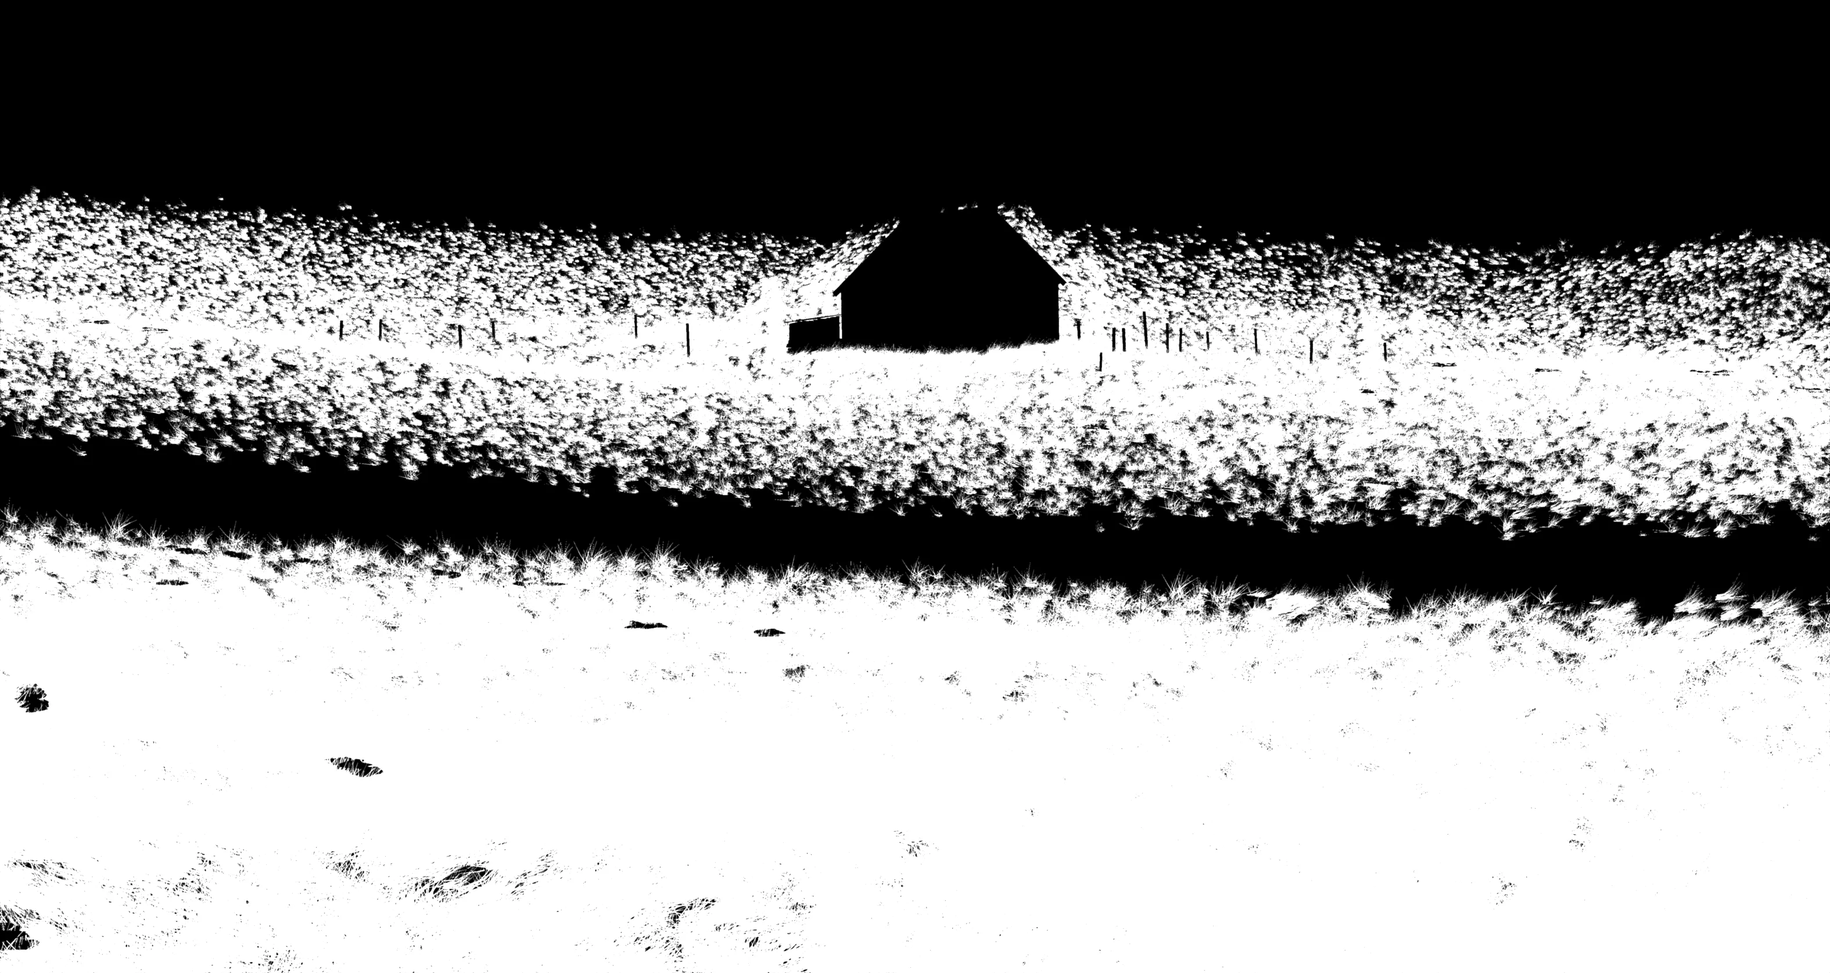
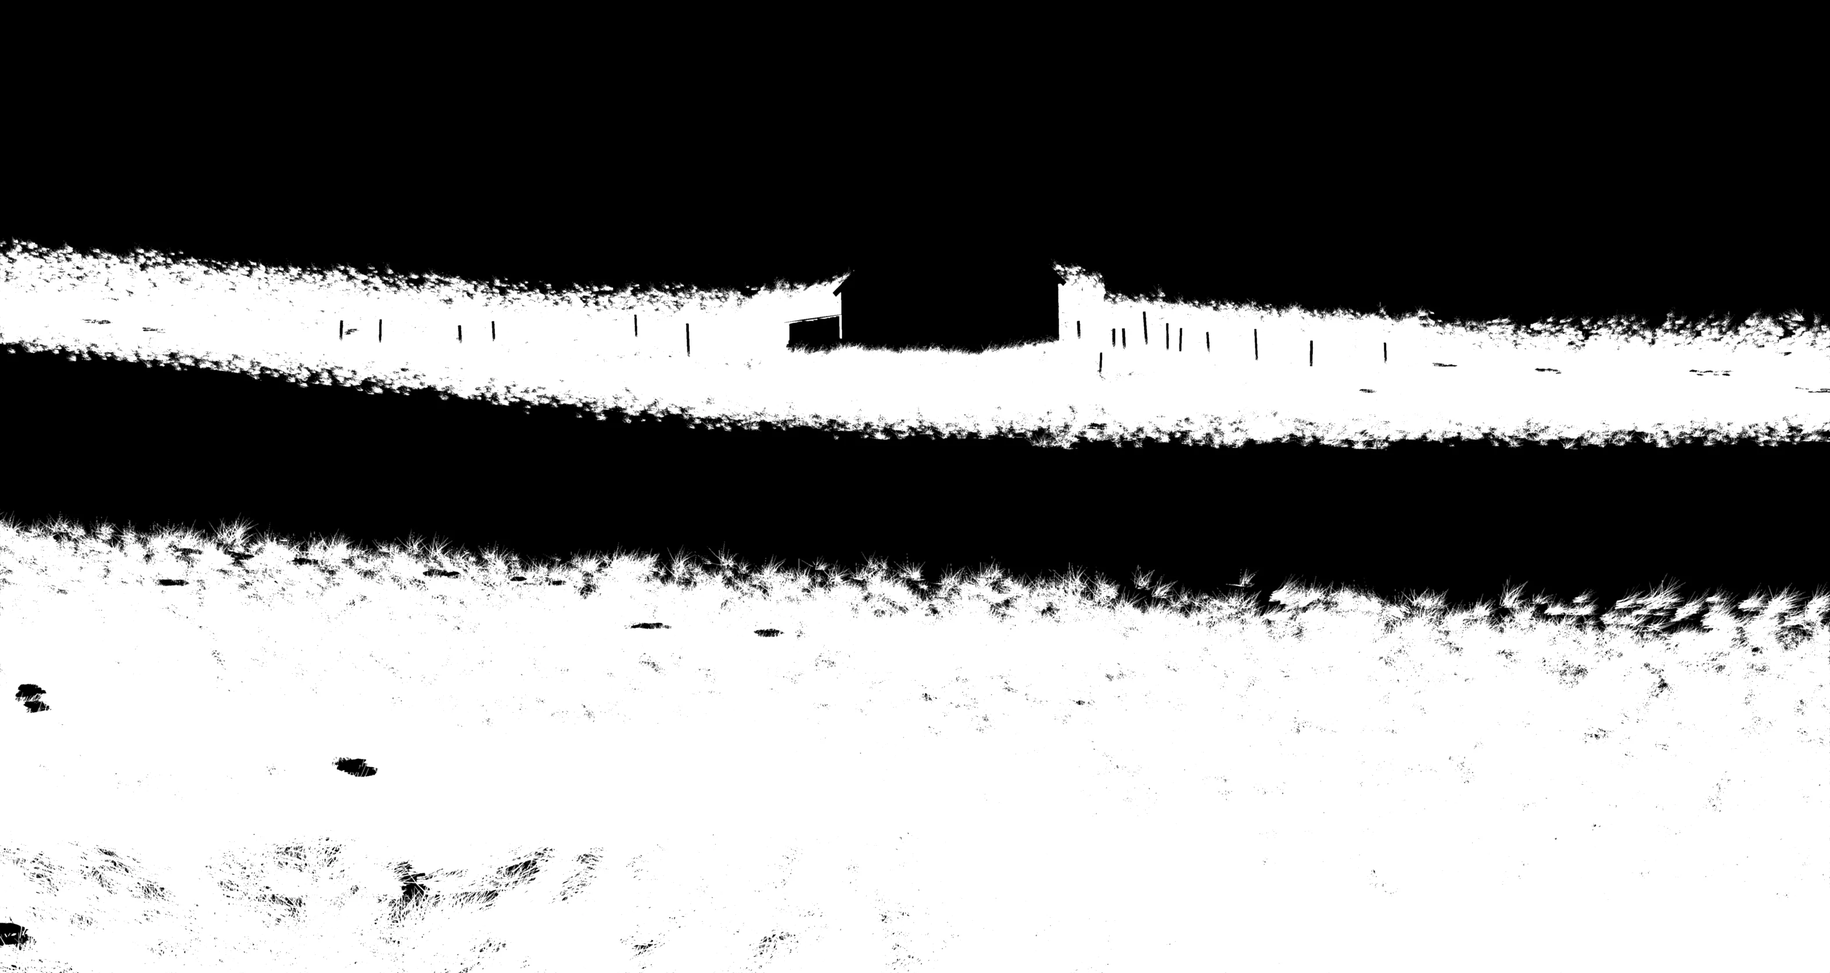
The sky is a deck of cloud lit by a low sun behind it, drifting on the wind, with its shafts and shadows over the moor; the hills keep the photograph's skyline; the grass at the house is one with its walls

diff --git a/zoom/sky.js b/zoom/sky.js
@@ -1,0 +1,197 @@
+// The sky over the moor: a deck of cloud drifting on one wind, lit by a low sun behind it, with shafts of its light falling
+// through the gaps, and the cloud's shadows passing over the land. The way planetary.html in the game makes its clouds
+// (shape noise eroded by detail noise, coverage that gathers and parts, Beer and powder light, a two-lobe phase), cut down
+// to what this one view needs. Two passes at half resolution: the cloud, and the shafts swept out from the sun across it.
+// createSky(gl) -> { render(view), cloud, rays } ; view: { w, h, scale, zoom, zc, time } ; textures read by the page's shader.
+
+const VS = `#version 300 es
+layout(location = 0) in vec2 p; out vec2 uv;
+void main() { uv = p * 0.5 + 0.5; uv.y = 1.0 - uv.y; gl_Position = vec4(p, 0.0, 1.0); }`;
+
+// the photograph's fitted camera: its rotation (camera to world) and focal length in its own pixels
+const CAMERA = `
+const mat3 CAM = mat3(0.828835, -0.023750, 0.558988, -0.000549, 0.999064, 0.043263, -0.559492, -0.036165, 0.828046);
+const vec2 PHOTO = vec2(1672.0, 941.0); const float FOC = 2296.89;
+uniform vec2 scale, zc; uniform float zoom, time; uniform vec3 sun;
+vec3 rayAt(vec2 uv) {
+  vec2 q = (uv - 0.5) * scale + 0.5; q = zc + (q - zc) / zoom;
+  return normalize(CAM * vec3((q.x - 0.5) * PHOTO.x / FOC, -(q.y - 0.5) * PHOTO.y / FOC, 1.0));
+}`;
+
+const FS_CLOUD = `#version 300 es
+precision highp float; precision highp sampler3D;
+in vec2 uv; layout(location = 0) out vec4 cloud; layout(location = 1) out vec4 light;
+uniform sampler3D N;
+${CAMERA}
+const float CL0 = 0.9, CL1 = 3.2;                 // the deck, km above the moor
+float remap(float v, float a, float b, float c, float d) { return c + (v - a) / (b - a) * (d - c); }
+vec3 wind() { return vec3(time * 0.11, 0.0, time * 0.035); }
+float density(vec3 p, bool detail) {
+  float h = (p.y - CL0) / (CL1 - CL0);
+  if (h < 0.0 || h > 1.0) return 0.0;
+  vec3 w = p + wind();
+  vec4 c = texture(N, w * vec3(0.018, 0.0, 0.018) + vec3(0.37, 0.5, 0.71));          // coverage, gathering and parting
+  float cov = smoothstep(0.32, 0.72, c.b);
+  float prof = smoothstep(0.0, 0.14, h) * (1.0 - smoothstep(0.45, 1.0, h));             // flat bellies, rounded tops
+  float shape = texture(N, w * 0.16 + vec3(0.0, h * 0.3, 0.0)).r;
+  float d = remap(shape * prof, 1.0 - cov, 1.0, 0.0, 1.0);
+  if (d <= 0.0) return 0.0;
+  if (detail) {
+    float e = texture(N, (w + vec3(0.0, time * 0.01, 0.0)) * 0.85).g;
+    d = remap(d, mix(e, 1.0 - e, clamp(h * 3.0, 0.0, 1.0)) * 0.32, 1.0, 0.0, 1.0);    // wisps below, billows above
+  }
+  return clamp(d * 3.0, 0.0, 1.0);
+}
+float hg(float c, float g) { float g2 = g * g; return (1.0 - g2) / (12.566 * pow(max(1.0 + g2 - 2.0 * g * c, 1e-4), 1.5)); }
+float toSun(vec3 p) {                              // optical depth toward the sun, four steps lengthening
+  float od = 0.0, s = 0.12;
+  for (int i = 0; i < 4; i++) { p += sun * s; od += density(p, false) * s; s *= 1.9; }
+  return od;
+}
+void main() {
+  vec3 rd = rayAt(uv), ro = vec3(0.0, 0.021, 0.0);
+  // a random start along each ray, new each frame, so the march leaves noise that the eye averages and not a pattern
+  float j = fract(sin(dot(gl_FragCoord.xy + fract(time * 7.13) * 91.7, vec2(12.9898, 78.233))) * 43758.5453);
+  if (rd.y <= 0.0) {
+    // the moor: where along this ray the ground lies (near enough, a plane at its height), and how much cloud stands
+    // between it and the sun: the shadow passing over it
+    float t = min(ro.y / max(-rd.y, 1e-4), 40.0);
+    vec3 g = ro + rd * t;
+    vec3 s0 = g + sun * ((CL0 + 0.25) / max(sun.y, 0.05));
+    float od = 0.0;
+    for (int i = 0; i < 6; i++) od += density(s0 + sun * (float(i) + j) * 0.35, false) * 0.35;
+    cloud = vec4(exp(-od * 5.0), 0.0, 0.0, 0.0); light = vec4(0.0);
+    return;
+  }
+  float t0 = (CL0 - ro.y) / rd.y, t1 = min((CL1 - ro.y) / rd.y, 55.0);
+  const int STEPS = 36;
+  float dt = (t1 - t0) / float(STEPS), cosT = dot(rd, sun);
+  float ph = mix(hg(cosT, -0.2), hg(cosT, 0.78), 0.7) * 12.566;
+  vec3 sunC = vec3(1.0, 0.78, 0.62) * 1.15, ambTop = vec3(0.44, 0.48, 0.58), ambBot = vec3(0.26, 0.28, 0.34);
+  vec3 C = vec3(0.0); float T = 1.0;
+  for (int i = 0; i < STEPS; i++) {
+    vec3 p = ro + rd * (t0 + (float(i) + j) * dt);
+    float d = density(p, true);
+    if (d > 0.003) {
+      float h = (p.y - CL0) / (CL1 - CL0), od = toSun(p);
+      float beer = exp(-od * 4.0) + 0.5 * exp(-od * 1.6), powder = 1.0 - exp(-d * 6.0);
+      vec3 S = sunC * beer * mix(1.0, powder, 0.6) * ph + mix(ambBot, ambTop, h);
+      S = max(S, vec3(0.2, 0.21, 0.25));                                                   // never black
+      float a = 1.0 - exp(-d * dt * 7.0);
+      C += T * a * S; T *= 1.0 - a; if (T < 0.02) break;
+    }
+  }
+  // haze toward the horizon softens the far deck into the sky
+  float haze = exp(-max(t0, 0.0) * 0.055);
+  cloud = vec4(C * haze, (1.0 - T) * haze);
+  // the sun's light where the sky lets it through: what the shafts are swept from
+  float glow = pow(max(cosT, 0.0), 30.0) * 0.9 + pow(max(cosT, 0.0), 5.0) * 0.12;
+  light = vec4(glow * (1.0 - cloud.a * 0.92), 0.0, 0.0, 1.0);
+}`;
+
+const FS_RAYS = `#version 300 es
+precision highp float;
+in vec2 uv; out vec4 o;
+uniform sampler2D L; uniform vec2 sunUV;
+void main() {
+  // shafts: the light gathered along the line to the sun, falling off with distance along it
+  vec2 tc = vec2(uv.x, 1.0 - uv.y);                 // the textures' own orientation, row 0 at the bottom
+  vec2 d = (sunUV - tc) / 48.0; vec2 p = tc; float a = 0.0, w = 1.0;
+  float j = fract(52.9829189 * fract(dot(gl_FragCoord.xy, vec2(0.06711056, 0.00583715))));
+  p += d * j;
+  for (int i = 0; i < 48; i++) { a += texture(L, p).r * w; w *= 0.965; p += d; }
+  o = vec4(a / 22.0, 0.0, 0.0, 1.0);
+}`;
+
+// A tileable 3D noise: r a Perlin-Worley shape, g a finer Worley fbm for detail, b a slow value noise for coverage.
+function noiseVolume(S) {
+  const data = new Uint8Array(S * S * S * 4);
+  const hash = (x, y, z, s) => { let h = (x * 374761393 + y * 668265263 + z * 2147483647 + s * 1442695041) | 0; h = (h ^ (h >>> 13)) * 1274126177; return ((h ^ (h >>> 16)) >>> 0) / 4294967296; };
+  const worley = (x, y, z, cells, seed) => {
+    const px = x * cells, py = y * cells, pz = z * cells, ix = Math.floor(px), iy = Math.floor(py), iz = Math.floor(pz); let best = 9;
+    for (let dz = -1; dz <= 1; dz++) for (let dy = -1; dy <= 1; dy++) for (let dx = -1; dx <= 1; dx++) {
+      const cx = ix + dx, cy = iy + dy, cz = iz + dz, wx = ((cx % cells) + cells) % cells, wy = ((cy % cells) + cells) % cells, wz = ((cz % cells) + cells) % cells;
+      const fx = cx + hash(wx, wy, wz, seed) - px, fy = cy + hash(wx, wy, wz, seed + 1) - py, fz = cz + hash(wx, wy, wz, seed + 2) - pz;
+      const d = fx * fx + fy * fy + fz * fz; if (d < best) best = d;
+    }
+    return 1 - Math.min(1, Math.sqrt(best));
+  };
+  const value = (x, y, z, cells, seed) => {
+    const px = x * cells, py = y * cells, pz = z * cells, ix = Math.floor(px), iy = Math.floor(py), iz = Math.floor(pz);
+    const fx = px - ix, fy = py - iy, fz = pz - iz, s = t => t * t * (3 - 2 * t), ux = s(fx), uy = s(fy), uz = s(fz);
+    const g = (a, b, c) => hash(((a % cells) + cells) % cells, ((b % cells) + cells) % cells, ((c % cells) + cells) % cells, seed);
+    const l = (a, b, t) => a + (b - a) * t;
+    return l(l(l(g(ix, iy, iz), g(ix + 1, iy, iz), ux), l(g(ix, iy + 1, iz), g(ix + 1, iy + 1, iz), ux), uy),
+             l(l(g(ix, iy, iz + 1), g(ix + 1, iy, iz + 1), ux), l(g(ix, iy + 1, iz + 1), g(ix + 1, iy + 1, iz + 1), ux), uy), uz);
+  };
+  let k = 0;
+  for (let z = 0; z < S; z++) for (let y = 0; y < S; y++) for (let x = 0; x < S; x++) {
+    const u = x / S, v = y / S, w = z / S;
+    const pv = value(u, v, w, 4, 1) * 0.5 + value(u, v, w, 8, 2) * 0.3 + value(u, v, w, 16, 3) * 0.2;
+    const wf = worley(u, v, w, 4, 10) * 0.625 + worley(u, v, w, 8, 20) * 0.25 + worley(u, v, w, 16, 30) * 0.125;
+    const shape = Math.min(1, Math.max(0, pv * 0.55 + wf * 0.75 - 0.25));
+    const detail = worley(u, v, w, 8, 40) * 0.625 + worley(u, v, w, 16, 50) * 0.25 + worley(u, v, w, 32, 60) * 0.125;
+    const cov = value(u, v, w, 2, 7) * 0.65 + value(u, v, w, 4, 8) * 0.35;
+    data[k++] = shape * 255; data[k++] = detail * 255; data[k++] = cov * 255; data[k++] = 255;
+  }
+  return data;
+}
+
+export function createSky(gl) {
+  const sh = (t, s) => { const x = gl.createShader(t); gl.shaderSource(x, s); gl.compileShader(x); if (!gl.getShaderParameter(x, gl.COMPILE_STATUS)) console.warn(gl.getShaderInfoLog(x)); return x; };
+  const prog = fs => { const p = gl.createProgram(); gl.attachShader(p, sh(gl.VERTEX_SHADER, VS)); gl.attachShader(p, sh(gl.FRAGMENT_SHADER, fs)); gl.bindAttribLocation(p, 0, 'p'); gl.linkProgram(p); return gl.getProgramParameter(p, gl.LINK_STATUS) ? p : null; };
+  const pc = prog(FS_CLOUD), pr = prog(FS_RAYS);
+  if (!pc || !pr) return null;
+  const S = 64, vol = gl.createTexture();
+  gl.bindTexture(gl.TEXTURE_3D, vol);
+  gl.texImage3D(gl.TEXTURE_3D, 0, gl.RGBA8, S, S, S, 0, gl.RGBA, gl.UNSIGNED_BYTE, noiseVolume(S));
+  gl.generateMipmap(gl.TEXTURE_3D);
+  for (const [k, v] of [[gl.TEXTURE_MIN_FILTER, gl.LINEAR_MIPMAP_LINEAR], [gl.TEXTURE_MAG_FILTER, gl.LINEAR], [gl.TEXTURE_WRAP_S, gl.REPEAT], [gl.TEXTURE_WRAP_T, gl.REPEAT], [gl.TEXTURE_WRAP_R, gl.REPEAT]]) gl.texParameteri(gl.TEXTURE_3D, k, v);
+  const target = () => { const t = gl.createTexture(); gl.bindTexture(gl.TEXTURE_2D, t); for (const [k, v] of [[gl.TEXTURE_MIN_FILTER, gl.LINEAR], [gl.TEXTURE_MAG_FILTER, gl.LINEAR], [gl.TEXTURE_WRAP_S, gl.CLAMP_TO_EDGE], [gl.TEXTURE_WRAP_T, gl.CLAMP_TO_EDGE]]) gl.texParameteri(gl.TEXTURE_2D, k, v); return t; };
+  const cloud = target(), light = target(), rays = target();
+  const fbC = gl.createFramebuffer(), fbR = gl.createFramebuffer();
+  let W = 0, H = 0, fresh = true, lastZ = 0;
+  const size = (w, h) => {
+    if (w === W && h === H) return; W = w; H = h; fresh = true;
+    for (const t of [cloud, light, rays]) { gl.bindTexture(gl.TEXTURE_2D, t); gl.texImage2D(gl.TEXTURE_2D, 0, gl.RGBA8, w, h, 0, gl.RGBA, gl.UNSIGNED_BYTE, null); }
+    gl.bindFramebuffer(gl.FRAMEBUFFER, fbC);
+    gl.framebufferTexture2D(gl.FRAMEBUFFER, gl.COLOR_ATTACHMENT0, gl.TEXTURE_2D, cloud, 0);
+    gl.framebufferTexture2D(gl.FRAMEBUFFER, gl.COLOR_ATTACHMENT1, gl.TEXTURE_2D, light, 0);
+    gl.drawBuffers([gl.COLOR_ATTACHMENT0, gl.COLOR_ATTACHMENT1]);
+    gl.bindFramebuffer(gl.FRAMEBUFFER, fbR);
+    gl.framebufferTexture2D(gl.FRAMEBUFFER, gl.COLOR_ATTACHMENT0, gl.TEXTURE_2D, rays, 0);
+    gl.bindFramebuffer(gl.FRAMEBUFFER, null);
+  };
+  // the sun: low in the west behind the deck, a little left of the house as the photograph looks
+  const sun = (() => { const v = [-0.62, 0.11, 0.78], l = Math.hypot(...v); return v.map(x => x / l); })();
+  const M = [0.828835, -0.023750, 0.558988, -0.000549, 0.999064, 0.043263, -0.559492, -0.036165, 0.828046];   // camera to world, by columns
+  const U = (p, n) => gl.getUniformLocation(p, n);
+  return {
+    cloud, rays, sun,
+    render(v) {
+      const w = Math.max(64, Math.round(v.w * v.res)), h = Math.max(36, Math.round(v.h * v.res));
+      size(w, h);
+      // where the sun falls on the screen: into the camera's frame, onto the photograph, through the zoom
+      const c = [0, 1, 2].map(i => M[i * 3] * sun[0] + M[i * 3 + 1] * sun[1] + M[i * 3 + 2] * sun[2]);
+      const qx = 0.5 + c[0] / c[2] * 2296.89 / 1672, qy = 0.5 - c[1] / c[2] * 2296.89 / 941;
+      const px_ = v.zc[0] + (qx - v.zc[0]) * v.zoom, py_ = v.zc[1] + (qy - v.zc[1]) * v.zoom;
+      const sunUV = [(px_ - 0.5) / v.scale[0] + 0.5, (py_ - 0.5) / v.scale[1] + 0.5];
+      gl.viewport(0, 0, w, h);
+      gl.bindFramebuffer(gl.FRAMEBUFFER, fbC); gl.useProgram(pc);
+      gl.activeTexture(gl.TEXTURE0); gl.bindTexture(gl.TEXTURE_3D, vol); gl.uniform1i(U(pc, 'N'), 0);
+      gl.uniform2f(U(pc, 'scale'), v.scale[0], v.scale[1]); gl.uniform2f(U(pc, 'zc'), v.zc[0], v.zc[1]);
+      gl.uniform1f(U(pc, 'zoom'), v.zoom); gl.uniform1f(U(pc, 'time'), v.time); gl.uniform3f(U(pc, 'sun'), ...sun);
+      // each frame's march blended into the last few, so its random starts average out; all at once while the view moves
+      const k = fresh || Math.abs(v.zoom - lastZ) > 1e-4 ? 1 : 0.22; fresh = false; lastZ = v.zoom;
+      gl.enable(gl.BLEND); gl.blendFunc(gl.CONSTANT_ALPHA, gl.ONE_MINUS_CONSTANT_ALPHA); gl.blendColor(0, 0, 0, k);
+      gl.drawArrays(gl.TRIANGLE_STRIP, 0, 4);
+      gl.disable(gl.BLEND);
+      gl.bindFramebuffer(gl.FRAMEBUFFER, fbR); gl.useProgram(pr);
+      gl.activeTexture(gl.TEXTURE0); gl.bindTexture(gl.TEXTURE_2D, light); gl.uniform1i(U(pr, 'L'), 0);
+      gl.uniform2f(U(pr, 'sunUV'), sunUV[0], 1 - sunUV[1]);
+      gl.drawArrays(gl.TRIANGLE_STRIP, 0, 4);
+      gl.bindFramebuffer(gl.FRAMEBUFFER, null);
+      return sunUV;
+    },
+  };
+}

diff --git a/zoom/depthview-zoom.js b/zoom/depthview-zoom.js
@@ -1,3 +1,4 @@
+import { createSky } from './sky.js?v=5';
 // A photograph that behaves like a 3D space: its depth map shifts near parts more than far ones as the camera moves,
 // and focus follows the depth under the pointer, so what you point at racks sharp and the rest falls soft: the
 // tilt-shift miniature look, made live from sharp photographs.
@@ -118,63 +119,34 @@ vec3 shade(sampler2D c, sampler2D d, vec2 q, float vid) {
   if (cH > 0.001) col = tile(hc2, sw2, hr2, s, col, raw, soft, tw, zoom, 1.0, lod);
   return col;
 }
-// The sky: an overcast deck of cloud drifting on one wind, marched through a slab 1.2-2.6 km up along each pixel's ray from
-// the photograph's own fitted camera, and laid over the photograph's sky as light and shade on its colour, so it is the same
-// evening, moving. Never black, grey bellies, grey-gold where the low sun reaches the edges.
-uniform float cloudsOn;
+// The sky (sky.js): its cloud, drawn at half resolution (over the sky: the cloud's light and cover; over the moor: the
+// shadow it casts), and the sun's shafts swept out from it.
+uniform float skyOn; uniform sampler2D cloudT, rayT;
 const mat3 CAM = mat3(0.828835, -0.023750, 0.558988, -0.000549, 0.999064, 0.043263, -0.559492, -0.036165, 0.828046);
-float h13(vec3 p) { p = fract(p * 0.1031); p += dot(p, p.zyx + 31.32); return fract((p.x + p.y) * p.z); }
-float noise3(vec3 x) {
-  vec3 i = floor(x), f = fract(x); f = f * f * (3.0 - 2.0 * f);
-  return mix(mix(mix(h13(i), h13(i + vec3(1, 0, 0)), f.x), mix(h13(i + vec3(0, 1, 0)), h13(i + vec3(1, 1, 0)), f.x), f.y),
-             mix(mix(h13(i + vec3(0, 0, 1)), h13(i + vec3(1, 0, 1)), f.x), mix(h13(i + vec3(0, 1, 1)), h13(i + 1.0), f.x), f.y), f.z);
-}
-const float CL0 = 1.2, CL1 = 2.6;
-float cloudD(vec3 p) {
-  float h = (p.y - CL0) / (CL1 - CL0);
-  vec3 q = p + vec3(tm2 * 0.045, 0.0, tm2 * 0.018);                          // one wind for every scale
-  float cov = noise3(q * vec3(0.42, 0.7, 0.42) + vec3(3.1, 0.0, 7.7)) * 0.5 + 0.5;
-  float prof = smoothstep(0.02, 0.2, h) * (1.0 - smoothstep(0.55, 1.0, h));
-  vec3 r = q * 1.9 + vec3(0.0, tm2 * 0.002, 0.0);
-  float f = noise3(r) * 0.55 + noise3(r * 2.3 + vec3(1.7, 9.2, 3.1)) * 0.3 + noise3(r * 5.1 + vec3(7.0, 2.0, 5.0)) * 0.15;
-  return clamp((cov * 0.95 + f * 0.75 - 0.9) * 2.6, 0.0, 1.0) * prof;
-}
-vec4 clouds(vec3 rd) {
-  if (rd.y <= 0.004) return vec4(0.0);
-  vec3 ro = vec3(0.0, 0.02, 0.0);
-  float t0 = (CL0 - ro.y) / rd.y, t1 = min((CL1 - ro.y) / rd.y, 60.0);
-  const int N = 12; float dt = (t1 - t0) / float(N);
-  float j = fract(52.9829189 * fract(dot(gl_FragCoord.xy, vec2(0.06711056, 0.00583715))));
-  vec3 sun = normalize(vec3(0.8, 0.08, 0.2));
-  vec3 C = vec3(0.0); float T = 1.0;
-  for (int i = 0; i < N; i++) {
-    vec3 p = ro + rd * (t0 + (float(i) + j) * dt);
-    float d = cloudD(p);
-    if (d > 0.004) {
-      float beer = exp(-cloudD(p + sun * 0.4) * 1.6), powder = 1.0 - exp(-d * 4.0);
-      float hgt = (p.y - CL0) / (CL1 - CL0);
-      vec3 col = mix(vec3(0.62, 0.62, 0.68), vec3(0.95, 0.93, 0.98), hgt) + vec3(0.5, 0.36, 0.26) * beer * powder * 0.5;
-      float a = 1.0 - exp(-d * dt * 1.8);
-      C += T * a * col; T *= 1.0 - a; if (T < 0.03) break;
-    }
-  }
-  return vec4(C, 1.0 - T);
-}
 void main() {
   vec2 q = (uv - 0.5) * scale + 0.5;
   q = zc + (q - zc) / zoom;
   // the second picture is drawn only while one fades into another
   vec3 b = shade(c1, d1, q, useV);
   vec3 col = mixv < 1.0 ? mix(shade(c0, d0, q, 0.0), lit(b, q), mixv) : lit(b, q);
-  if (cloudsOn > 0.5) {
+  if (skyOn > 0.5) {
+    vec2 tc = vec2(uv.x, 1.0 - uv.y);
+    // the half-resolution cloud, softened over a few of its texels so its march leaves no pattern
+    vec2 ct = 1.0 / vec2(textureSize(cloudT, 0));
+    vec4 cl = (texture(cloudT, tc) * 2.0 + texture(cloudT, tc + ct * vec2(1.0, 0.5)) + texture(cloudT, tc - ct * vec2(1.0, 0.5))
+             + texture(cloudT, tc + ct * vec2(-0.5, 1.0)) + texture(cloudT, tc - ct * vec2(-0.5, 1.0))) / 6.0;
+    float ray = texture(rayT, tc).r;
     float skyA = hon0 > 0.5 ? 1.0 - textureLod(hc0, q, 0.0).a : smoothstep(0.06, 0.02, texture(d1, q).r);
-    if (skyA > 0.01) {
-      vec3 rd = normalize(CAM * vec3((q.x - 0.5) * 1672.0 / 2296.89, -(q.y - 0.5) * 941.0 / 2296.89, 1.0));
-      vec4 cl = clouds(rd);
-      vec3 base = textureLod(c1, q, 4.5).rgb;                                // the photograph's sky, its colour and gradient
-      float m = (dot(cl.rgb, vec3(0.333)) + (1.0 - cl.a) * 0.62) / 0.75;       // the deck's light and shade about its mean
-      col = mix(col, base * clamp(1.0 + (m - 1.0) * 1.5, 0.55, 1.35), skyA);
-    }
+    vec3 rd = normalize(CAM * vec3((q.x - 0.5) * 1672.0 / 2296.89, -(q.y - 0.5) * 941.0 / 2296.89, 1.0));
+    // the sky: the photograph's own colour and gradient behind the deck, the deck over it
+    vec3 base = textureLod(c1, q, 5.0).rgb;
+    vec3 sky = base * (1.0 - cl.a) + cl.rgb * 0.85;
+    // the moor: the cloud's shadow passing over it (only where the cloud pass looked down at the ground)
+    float shadow = rd.y <= 0.0 ? cl.r : 1.0;
+    vec3 land = col * mix(0.72, 1.06, shadow);
+    col = mix(land, sky, skyA);
+    // the sun's shafts, over the sky and falling across the moor
+    col += min(ray, 1.5) * vec3(1.0, 0.8, 0.62) * mix(0.07, 0.11, skyA);
   }
   float v = smoothstep(0.95, 0.35, length((uv - 0.5) * vec2(1.0, 0.8)));
   // a fine still grain, heavier in the shadows, so the rendered moor carries the photograph's own film texture
@@ -189,14 +161,15 @@ export function mount(canvas) {
   if (!gl) return null;
   const sh = (t, s) => { const x = gl.createShader(t); gl.shaderSource(x, s); gl.compileShader(x); return x; };
   const pr = gl.createProgram();
-  gl.attachShader(pr, sh(gl.VERTEX_SHADER, VS)); gl.attachShader(pr, sh(gl.FRAGMENT_SHADER, FS)); gl.linkProgram(pr);
+  gl.attachShader(pr, sh(gl.VERTEX_SHADER, VS)); gl.attachShader(pr, sh(gl.FRAGMENT_SHADER, FS)); gl.bindAttribLocation(pr, 0, 'p'); gl.linkProgram(pr);
   if (!gl.getProgramParameter(pr, gl.LINK_STATUS)) return null;
   gl.useProgram(pr);
   gl.bindBuffer(gl.ARRAY_BUFFER, gl.createBuffer());
   gl.bufferData(gl.ARRAY_BUFFER, new Float32Array([-1, -1, 1, -1, -1, 1, 1, 1]), gl.STATIC_DRAW);
   const loc = gl.getAttribLocation(pr, 'p'); gl.enableVertexAttribArray(loc); gl.vertexAttribPointer(loc, 2, gl.FLOAT, false, 0, 0);
   const U = n => gl.getUniformLocation(pr, n);
-  ['c0', 'd0', 'c1', 'd1', 'v1', 'hc0', 'hc1', 'hc2', 'cp', 'sw0', 'sw1', 'sw2'].forEach((n, i) => gl.uniform1i(U(n), i));
+  ['c0', 'd0', 'c1', 'd1', 'v1', 'hc0', 'hc1', 'hc2', 'cp', 'sw0', 'sw1', 'sw2', 'cloudT', 'rayT'].forEach((n, i) => gl.uniform1i(U(n), i));
+  let sky;
   let clean = null;
   const tiles = [{ t: null, r: [0, 0, 0, 0], w: null }, { t: null, r: [0, 0, 0, 0], w: null }, { t: null, r: [0, 0, 0, 0], w: null }];
 
@@ -281,7 +254,16 @@ export function mount(canvas) {
       gl.uniform4f(U('hr' + i), ...T.r); gl.uniform1f(U('hon' + i), T.t ? 1 : 0); });
     gl.activeTexture(gl.TEXTURE8); gl.bindTexture(gl.TEXTURE_2D, clean || black); gl.uniform1f(U('cpon'), clean ? 1 : 0);
     tiles.forEach((T, i) => { gl.activeTexture(gl.TEXTURE9 + i); gl.bindTexture(gl.TEXTURE_2D, T.w || black); });
-    gl.uniform1f(U('tm2'), t); gl.uniform1f(U('cloudsOn'), still ? 0 : 1);
+    gl.uniform1f(U('tm2'), t);
+    if (sky === undefined) sky = still ? null : createSky(gl);
+    if (sky) {
+      // the sky's two passes at half resolution, then back to the picture
+      sky.render({ w: canvas.width, h: canvas.height, res: canvas.width > 2000 ? 0.4 : 0.5, scale: sc, zoom: Z, zc: ZC, time: t });
+      gl.useProgram(pr); gl.viewport(0, 0, canvas.width, canvas.height);
+      gl.activeTexture(gl.TEXTURE12); gl.bindTexture(gl.TEXTURE_2D, sky.cloud);
+      gl.activeTexture(gl.TEXTURE13); gl.bindTexture(gl.TEXTURE_2D, sky.rays);
+    }
+    gl.uniform1f(U('skyOn'), sky ? 1 : 0);
     gl.drawArrays(gl.TRIANGLE_STRIP, 0, 4);
     if (!still || mix < 1 || pull > 0 || camGoal || movie) raf = requestAnimationFrame(frame);
   };

diff --git a/zoom/index.html b/zoom/index.html
@@ -45,7 +45,7 @@
 // The live page as it is (the photograph with depth, focus racked to the pointer, the tilt-shift look), and a zoom on top: the wheel,
 // a drag or the arrow keys magnify it about the lit window. The house is modelled and rendered from the photograph's own camera
 // at many times its pixels and laid over it, so it keeps its detail all the way in. ?z= (0-1) sets the zoom.
-import { mount } from './depthview-zoom.js?v=1795720665';
+import { mount } from './depthview-zoom.js?v=1795722647';
 const fig = document.querySelector('figure'), words = document.querySelector('.words');
 const P = [0.69, 0.585], HOUSE = P.map(v => (v - 0.5) / 0.9 + 0.5), AT = [0.69, 0.6];
 function frame() {
@@ -57,14 +57,14 @@ frame(); addEventListener('resize', frame);
 const c = document.createElement('canvas'); c.setAttribute('aria-hidden', 'true'); fig.append(c);
 const v = mount(c);
 if (!v) { c.remove(); throw 0; }
-await v.show('../media/photo-home-earth-2400.webp', './depth.webp?v=1795720665');
+await v.show('../media/photo-home-earth-2400.webp', './depth.webp?v=1795722647');
 c.classList.add('on');
 v.sharpen('../media/photo-home-earth-6688.webp');
 // the boxes in the photograph (1672 x 941): the moor the whole frame; the land x 820-1450, y 455-790; the house x 1068-1204, y 488-600
-v.tile(0, './moor.webp?v=1795720665', [0, 0, 1, 1]);
-v.tile(1, './land.webp?v=1795720665', [820 / 1672, 455 / 941, 1450 / 1672, 790 / 941]);
-v.plate('./clean.webp?v=1795720665');
-v.tile(2, './house.webp?v=1795720665', [1068 / 1672, 488 / 941, 1204 / 1672, 600 / 941]);
+v.tile(0, './moor.webp?v=1795722647', [0, 0, 1, 1]);
+v.tile(1, './land.webp?v=1795722647', [820 / 1672, 455 / 941, 1450 / 1672, 790 / 941]);
+v.plate('./clean.webp?v=1795722647');
+v.tile(2, './house.webp?v=1795722647', [1068 / 1672, 488 / 941, 1204 / 1672, 600 / 941]);
 
 // The zoom: s runs 0-1, the picture magnified ZMAX^s times about the lit window's centre.
 const ZMAX = 16, CENTRE = [0.678, 0.5986];
